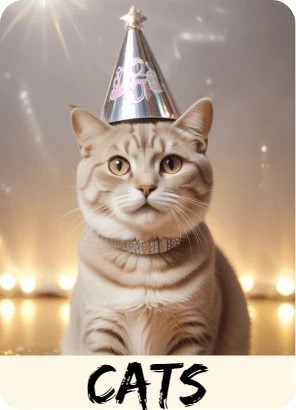
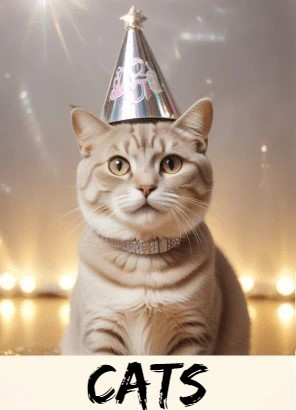
refactor: replace images

diff --git a/src/widgets/CategoryList/ui/CategoryList.module.css b/src/widgets/CategoryList/ui/CategoryList.module.css
@@ -22,7 +22,7 @@
 .card {
   width: 250px;
   height: 345px;
-  border-radius: 20px;
+  border-radius: 10px;
   box-shadow:
     rgb(6 24 44 / 40%) 0 0 0 0,
     rgb(6 24 44 / 65%) 0 4px 6px -1px,
